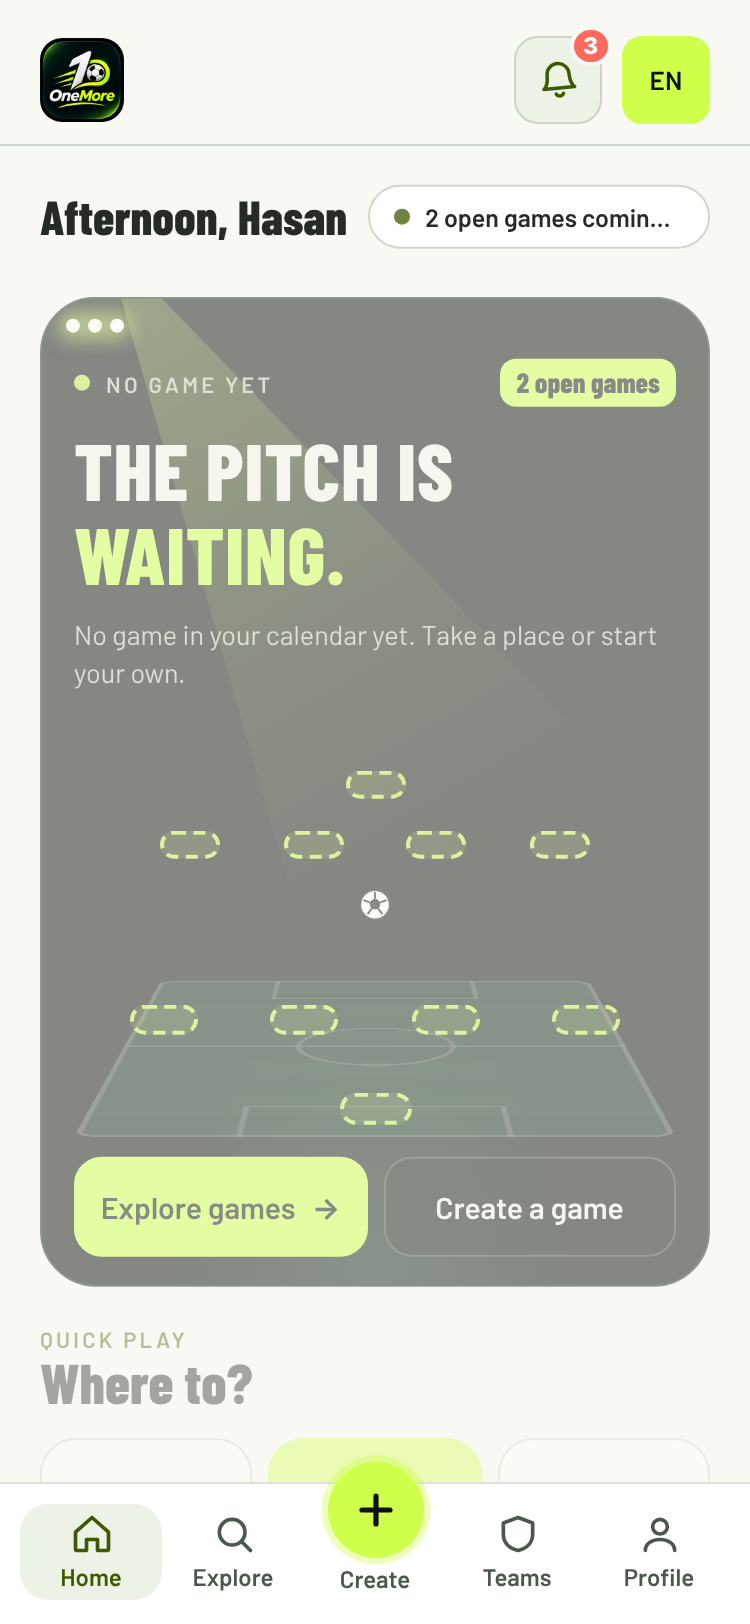
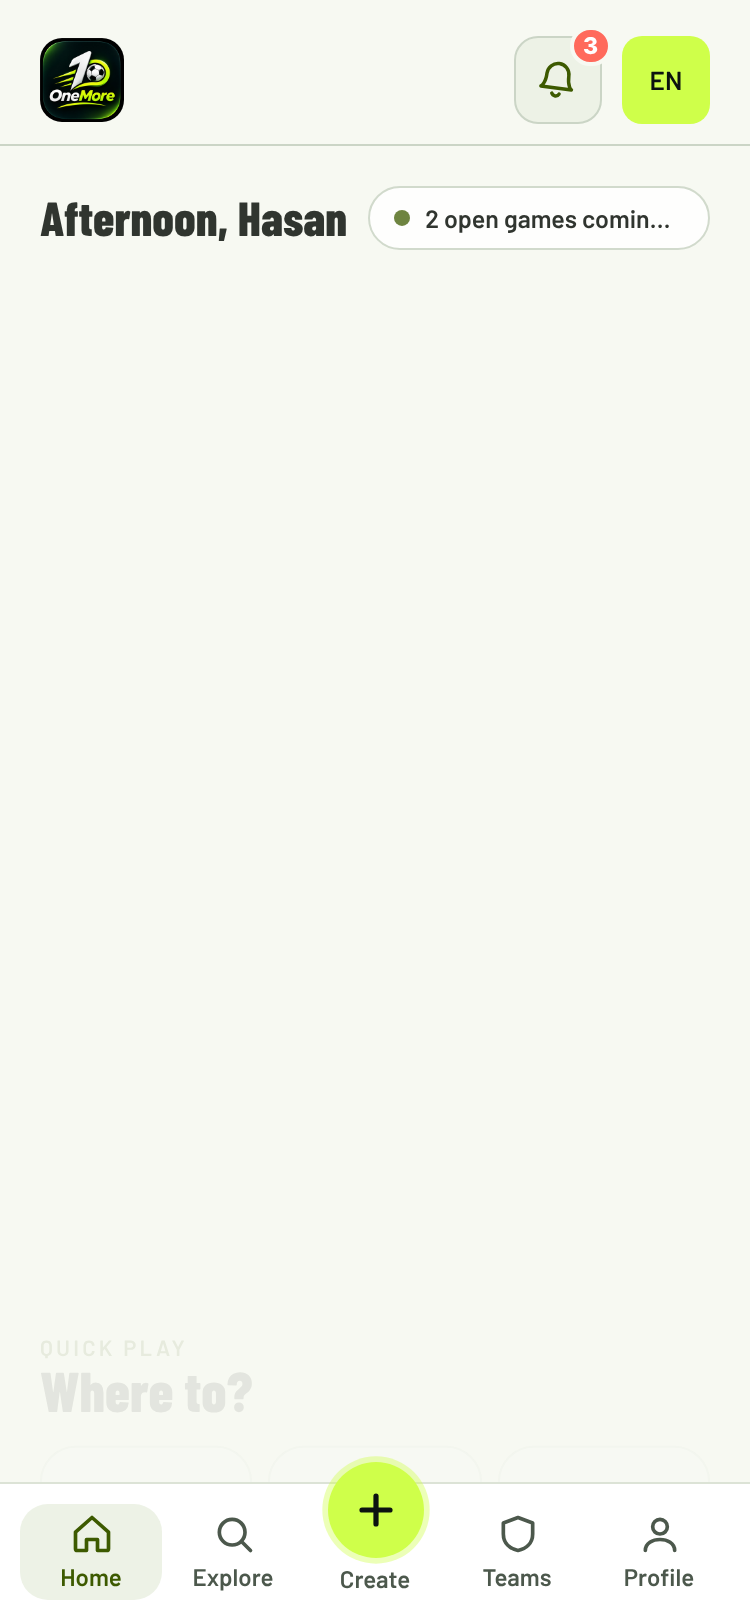
Home quick access: only Find a game, Challenges, My teams (regression pending)
Claude-Session: https://claude.ai/code/session_018Y2DJcCxNRruUAufNUxVdN

diff --git a/src/features/home/HomeParts.tsx b/src/features/home/HomeParts.tsx
@@ -256,7 +256,6 @@ const tileIcons: Record<string, (color: string) => ReactNode> = {
       <Path d="M21 21l-4.3-4.3" stroke={c} strokeWidth="1.8" strokeLinecap="round" />
     </>
   ),
-  create: (c) => <Path d="M12 5v14M5 12h14" stroke={c} strokeWidth="2.2" strokeLinecap="round" />,
   challenges: (c) => (
     <Path
       d="M4 4l9 9M4 4v4M4 4h4M20 4l-9 9M20 4v4M20 4h-4M9 13l-4 4M15 13l4 4M6 16l-2 4M18 16l2 4"
@@ -274,82 +273,41 @@ const tileIcons: Record<string, (color: string) => ReactNode> = {
       strokeLinejoin="round"
     />
   ),
-  alerts: (c) => (
-    <Path
-      d="M6 16v-5a6 6 0 0 1 12 0v5l2 2H4zM10 21a2 2 0 0 0 4 0"
-      stroke={c}
-      strokeWidth="1.8"
-      strokeLinecap="round"
-      strokeLinejoin="round"
-    />
-  ),
-  settings: (c) => (
-    <>
-      <Circle cx="12" cy="12" r="3" stroke={c} strokeWidth="1.8" />
-      <Path
-        d="M12 3v3M12 18v3M3 12h3M18 12h3M5.6 5.6l2.100 2.100M16.300 16.300l2.100 2.100M18.400 5.600l-2.100 2.100M7.700 16.300l-2.100 2.100"
-        stroke={c}
-        strokeWidth="1.800"
-        strokeLinecap="round"
-      />
-    </>
-  ),
 };
 
 /** Six shortcuts in a plain grid. The create tile is the bright one. */
-export function HomeTiles({ unread }: { unread: number }) {
+export function HomeTiles() {
   const { colors, locale } = useAppPreferences();
   const copy = translations[locale];
-  const tiles: { id: string; label: string; href: string; primary?: boolean; badge?: number }[] = [
+  const tiles: { id: keyof typeof tileIcons; label: string; href: string }[] = [
     { id: 'find', label: copy.homeTileFind, href: '/explore' },
-    { id: 'create', label: copy.homeTileCreate, href: '/create', primary: true },
     { id: 'challenges', label: copy.homeTileChallenges, href: '/challenges' },
     { id: 'teams', label: copy.homeTileTeams, href: '/teams' },
-    { id: 'alerts', label: copy.homeTileAlerts, href: '/notifications', badge: unread },
-    { id: 'settings', label: copy.homeTileSettings, href: '/settings' },
   ];
   return (
     <View style={styles.tiles}>
-      {tiles.map((tile) => {
-        const ink = tile.primary ? colors.primaryButtonText : colors.accentText;
-        return (
-          <PressLink
-            key={tile.id}
-            href={tile.href as Href}
-            label={
-              tile.badge ? `${tile.label}, ${tile.badge > 99 ? '99+' : tile.badge}` : tile.label
-            }
-            testID={`home-tile-${tile.id}`}
+      {tiles.map((tile) => (
+        <PressLink
+          key={tile.id}
+          href={tile.href as Href}
+          label={tile.label}
+          testID={`home-tile-${tile.id}`}
+          style={[styles.tile, { backgroundColor: colors.surface, borderColor: colors.border }]}
+        >
+          <Svg width={24} height={24} viewBox="0 0 24 24" fill="none">
+            {tileIcons[tile.id](colors.accentText)}
+          </Svg>
+          <Text
+            numberOfLines={2}
             style={[
-              styles.tile,
-              tile.primary
-                ? { backgroundColor: colors.primaryButton, borderColor: colors.primaryButton }
-                : { backgroundColor: colors.surface, borderColor: colors.border },
+              styles.tileText,
+              { color: colors.textPrimary, fontFamily: bodyFont(locale, 'semibold') },
             ]}
           >
-            <Svg width={24} height={24} viewBox="0 0 24 24" fill="none">
-              {tileIcons[tile.id](ink)}
-            </Svg>
-            <Text
-              numberOfLines={2}
-              style={[
-                styles.tileText,
-                {
-                  color: tile.primary ? colors.primaryButtonText : colors.textPrimary,
-                  fontFamily: bodyFont(locale, 'semibold'),
-                },
-              ]}
-            >
-              {tile.label}
-            </Text>
-            {tile.badge ? (
-              <View style={[styles.tileBadge, { borderColor: colors.surface }]}>
-                <Text style={styles.tileBadgeText}>{tile.badge > 99 ? '99+' : tile.badge}</Text>
-              </View>
-            ) : null}
-          </PressLink>
-        );
-      })}
+            {tile.label}
+          </Text>
+        </PressLink>
+      ))}
     </View>
   );
 }
@@ -570,20 +528,6 @@ const styles = StyleSheet.create({
     paddingVertical: 10,
   },
   tileText: { fontSize: 12.5, lineHeight: 16, textAlign: 'center' },
-  tileBadge: {
-    position: 'absolute',
-    top: 8,
-    right: 8,
-    minWidth: 20,
-    height: 20,
-    borderRadius: 10,
-    borderWidth: 2,
-    paddingHorizontal: 4,
-    backgroundColor: '#E5352B',
-    alignItems: 'center',
-    justifyContent: 'center',
-  },
-  tileBadgeText: { color: '#FFFFFF', fontSize: 11, fontWeight: '700', lineHeight: 14 },
   rail: { marginHorizontal: -20 },
   railContent: { paddingHorizontal: 20, gap: 12 },
   // Each open game is a small match ticket with a tear-off stub for the kick-off time.

diff --git a/e2e/phase-17-home.spec.ts b/e2e/phase-17-home.spec.ts
@@ -160,7 +160,7 @@ test('no game yet: home invites to play, shows open games and localizes to Greek
   const languageToggle = page.getByRole('button', { name: 'Language: English' });
   await languageToggle.click();
   await expect(page.getByRole('heading', { name: 'Το γήπεδο περιμένει.' })).toBeVisible();
-  await expect(page.getByRole('link', { name: 'Ανακάλυψε αγώνες' }).first()).toBeVisible();
+  await expect(page.getByRole('link', { name: 'Αναζήτηση' }).first()).toBeVisible();
   await expect(page.getByRole('heading', { name: 'Πού πάμε;' })).toBeVisible();
 });
 
@@ -217,8 +217,14 @@ for (const theme of ['dark', 'light'] as const) {
     );
     await expect(page.getByText(/, Hasan$/)).toBeVisible();
 
-    await expect(page.locator('[data-testid^="home-tile-"]')).toHaveCount(6);
-    await expect(page.getByRole('link', { name: 'Notifications, 3' })).toBeVisible();
+    await expect(page.locator('[data-testid^="home-tile-"]')).toHaveCount(3);
+    await expect(page.getByTestId('home-tile-find')).toBeVisible();
+    await expect(page.getByTestId('home-tile-challenges')).toBeVisible();
+    await expect(page.getByTestId('home-tile-teams')).toBeVisible();
+    // Create, Notifications and Settings are reachable from the tab bar and the top bar, not here.
+    await expect(page.getByTestId('home-tile-create')).toHaveCount(0);
+    await expect(page.getByTestId('home-tile-alerts')).toHaveCount(0);
+    await expect(page.getByTestId('home-tile-settings')).toHaveCount(0);
     // The player's own game is the hero, so the rail only lists the other open games.
     await expect(page.getByTestId('home-rail-card')).toHaveCount(2);
     await expect(page.getByRole('link', { name: /Strovolos United/ })).toBeVisible();

diff --git a/src/i18n/el.ts b/src/i18n/el.ts
@@ -1082,11 +1082,8 @@ export const el = {
   homeQuickEyebrow: 'Γρήγορο παιχνίδι',
   homeQuickTitle: 'Πού πάμε;',
   homeTileFind: 'Βρες αγώνα',
-  homeTileCreate: 'Νέος αγώνας',
   homeTileChallenges: 'Προκλήσεις',
   homeTileTeams: 'Ομάδες',
-  homeTileAlerts: 'Ειδοποιήσεις',
-  homeTileSettings: 'Ρυθμίσεις',
   homeRailEyebrow: 'Ανοιχτοί αγώνες',
   homeRailTitle: 'Επόμενες σέντρες',
   homeRailError: 'Οι αγώνες δεν φορτώθηκαν.',

diff --git a/src/features/home/HomeStadium.tsx b/src/features/home/HomeStadium.tsx
@@ -542,9 +542,7 @@ export function HomeStadium({
             </Text>
           </PressLink>
           <PressLink href={'/create' as Href} style={styles.action}>
-            <Text style={[styles.actionText, { fontFamily: semibold }]}>
-              {copy.homeCreateCta}
-            </Text>
+            <Text style={[styles.actionText, { fontFamily: semibold }]}>{copy.homeCreateCta}</Text>
           </PressLink>
         </View>
       )}

diff --git a/src/i18n/en.ts b/src/i18n/en.ts
@@ -1073,11 +1073,8 @@ export const en = {
   homeQuickEyebrow: 'Quick play',
   homeQuickTitle: 'Where to?',
   homeTileFind: 'Find a game',
-  homeTileCreate: 'Create a game',
   homeTileChallenges: 'Challenges',
   homeTileTeams: 'My teams',
-  homeTileAlerts: 'Notifications',
-  homeTileSettings: 'Settings',
   homeRailEyebrow: 'Open games',
   homeRailTitle: 'Next kick-offs',
   homeRailError: 'Games could not be loaded.',

diff --git a/src/app/(app)/home.tsx b/src/app/(app)/home.tsx
@@ -166,7 +166,7 @@ export default function AppHomeScreen() {
 
         <Rise delay={220} style={styles.section}>
           <HomeSectionHead eyebrow={copy.homeQuickEyebrow} title={copy.homeQuickTitle} />
-          <HomeTiles unread={unread} />
+          <HomeTiles />
         </Rise>
 
         <Rise delay={300} style={styles.section}>
